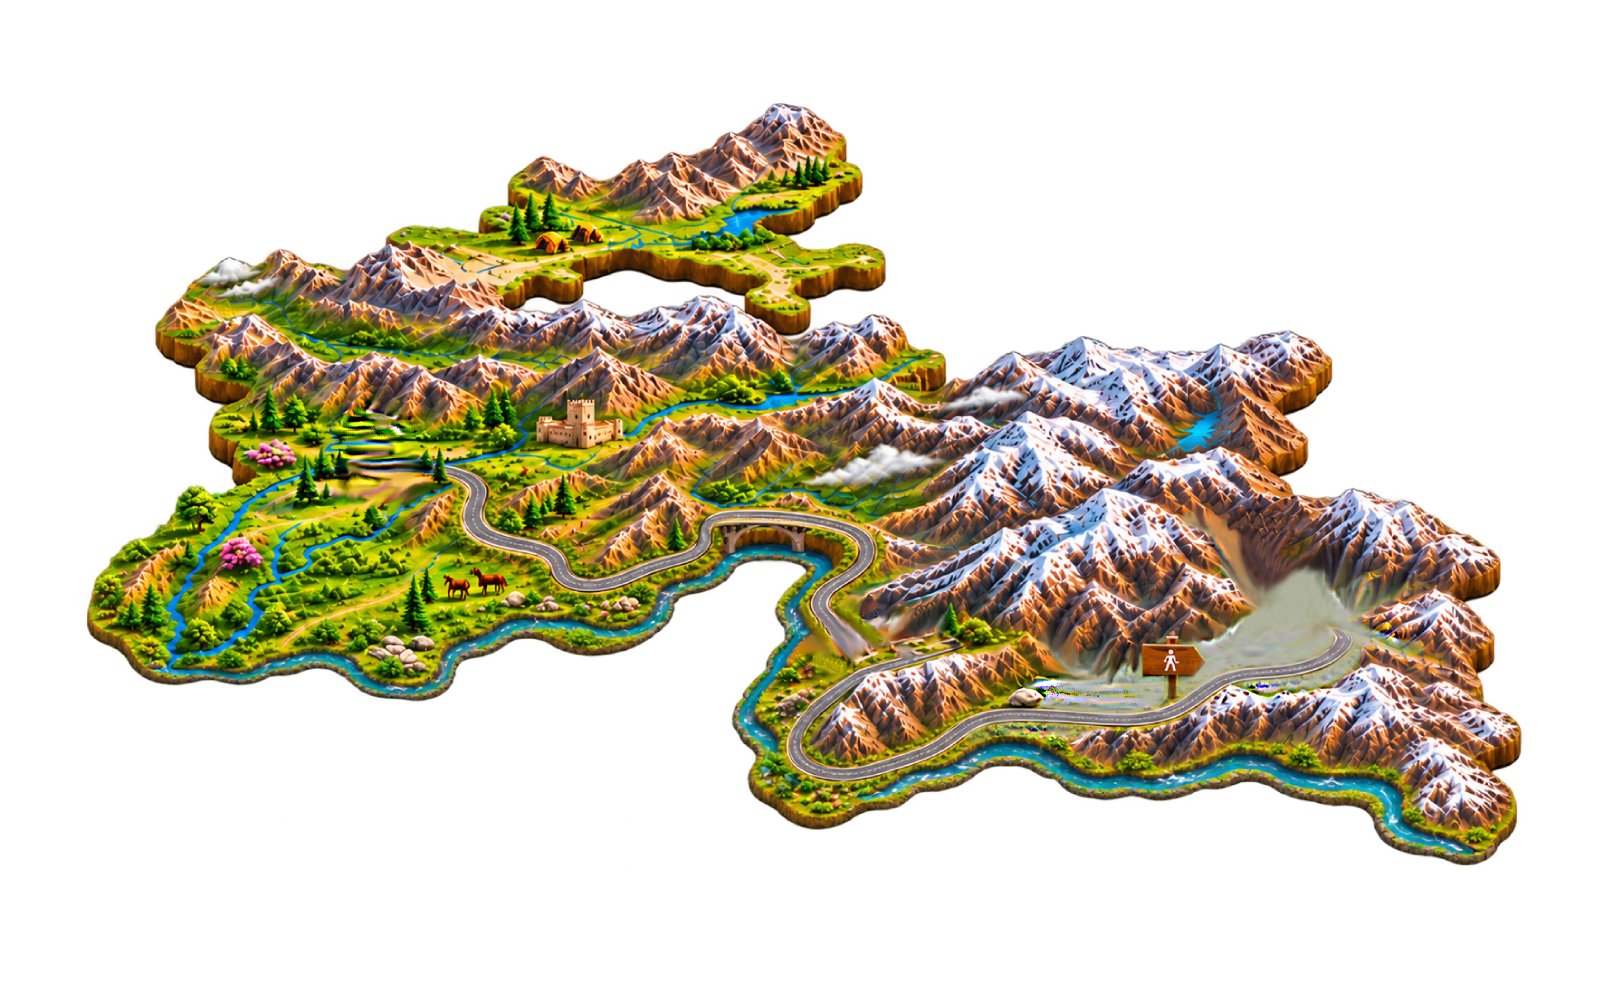
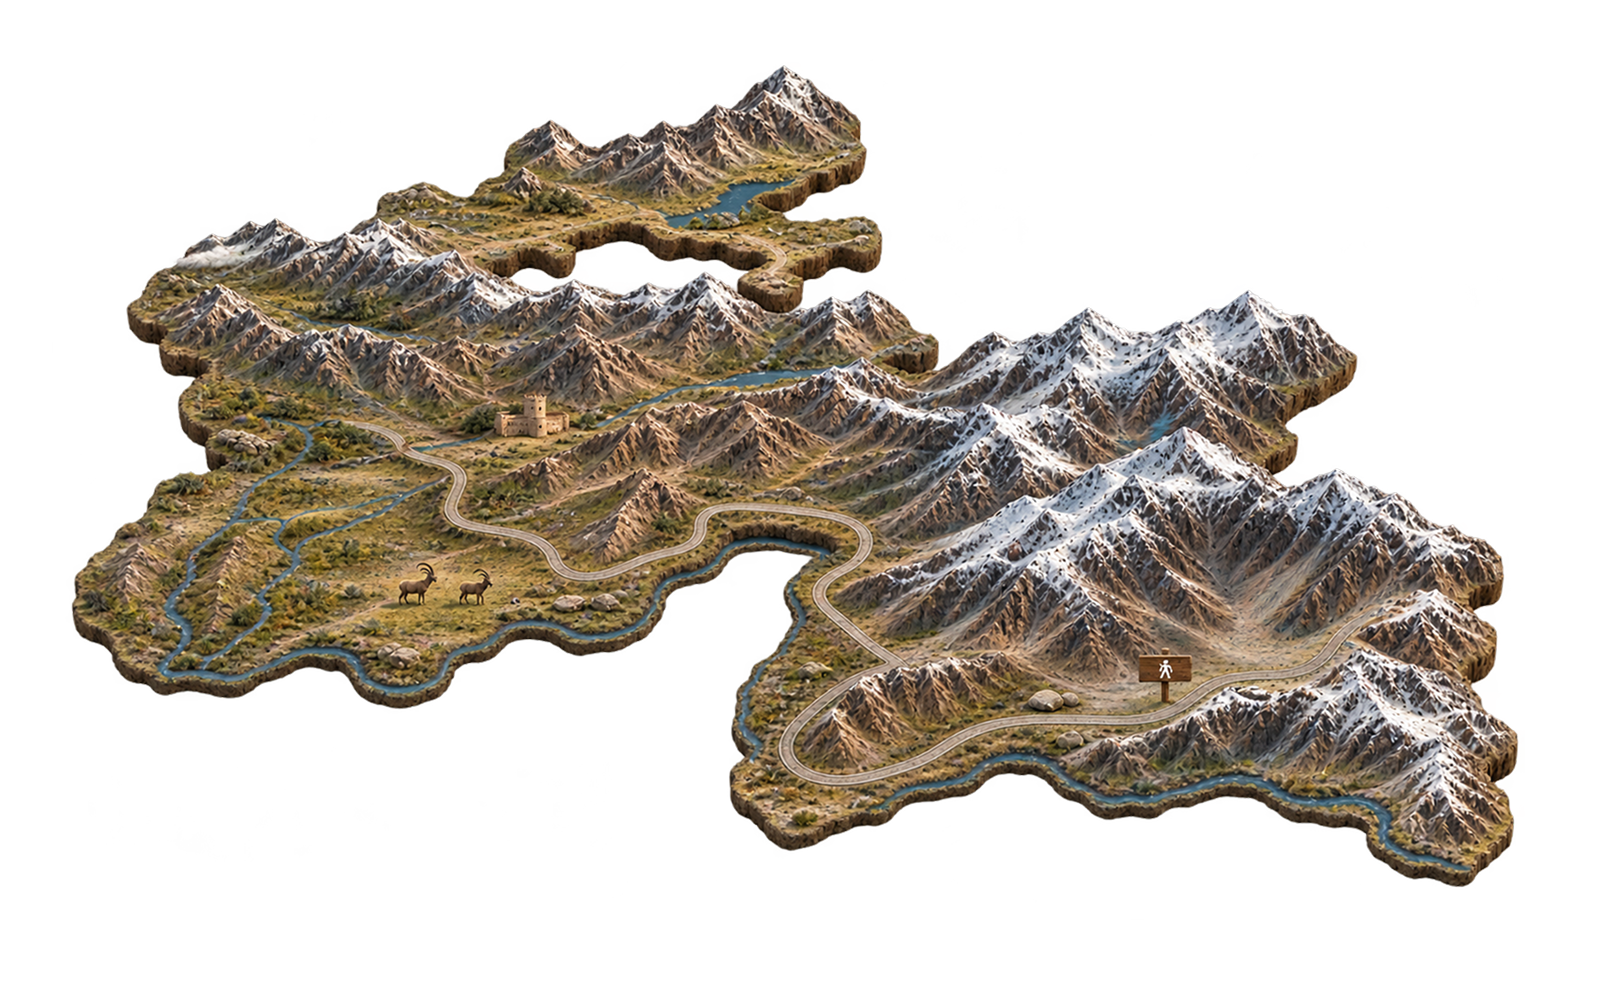
changed the map

diff --git a/src/components/ExpeditionMap/ExpeditionMapCanvas.tsx b/src/components/ExpeditionMap/ExpeditionMapCanvas.tsx
@@ -19,9 +19,9 @@ import type { ExpeditionMapCopy } from "@/data/expedition-map";
 // Artwork-space pixels, traced from the supplied PNG; these are not geographic coordinates.
 const FLIGHT = "M 10 255 C 185 255 347 327 445 470";
 const ROAD_TO_KHOROG =
-  "M 445 470 C 474 478 486 490 477 510 C 459 538 502 543 535 550 C 559 556 551 574 579 583 C 609 593 647 572 678 562 C 700 554 711 548 711 531 C 711 511 750 518 786 519 C 826 520 859 526 869 543 C 880 563 841 577 826 595 C 810 612 823 622 836 632 C 851 644 826 662 815 690";
+  "M 445 470 C 469 480 456 495 451 511 C 439 532 483 529 521 539 C 555 548 546 565 571 574 C 597 585 640 563 674 554 C 697 549 700 541 701 523 C 700 499 747 507 785 510 C 827 512 860 519 867 538 C 877 559 837 573 823 587 C 802 606 838 630 861 650 L 891 670 C 879 681 863 691 851 701";
 const ROAD_AFTER_KHOROG =
-  " C 803 708 784 731 797 754 C 812 780 842 784 873 775 C 914 768 950 749 974 732 C 997 713 1036 716 1075 722 C 1118 727 1159 729 1189 713 C 1212 697 1228 680 1261 675 C 1290 671 1324 657 1341 637";
+  " C 831 718 805 734 791 749 C 774 772 812 786 845 781 C 889 776 932 755 964 739 C 994 724 1033 722 1073 726 C 1115 729 1153 727 1182 713 C 1206 695 1227 683 1260 681 C 1293 680 1323 675 1341 660";
 const ROAD = ROAD_TO_KHOROG + ROAD_AFTER_KHOROG;
 export default function ExpeditionMapCanvas({
   locale,
